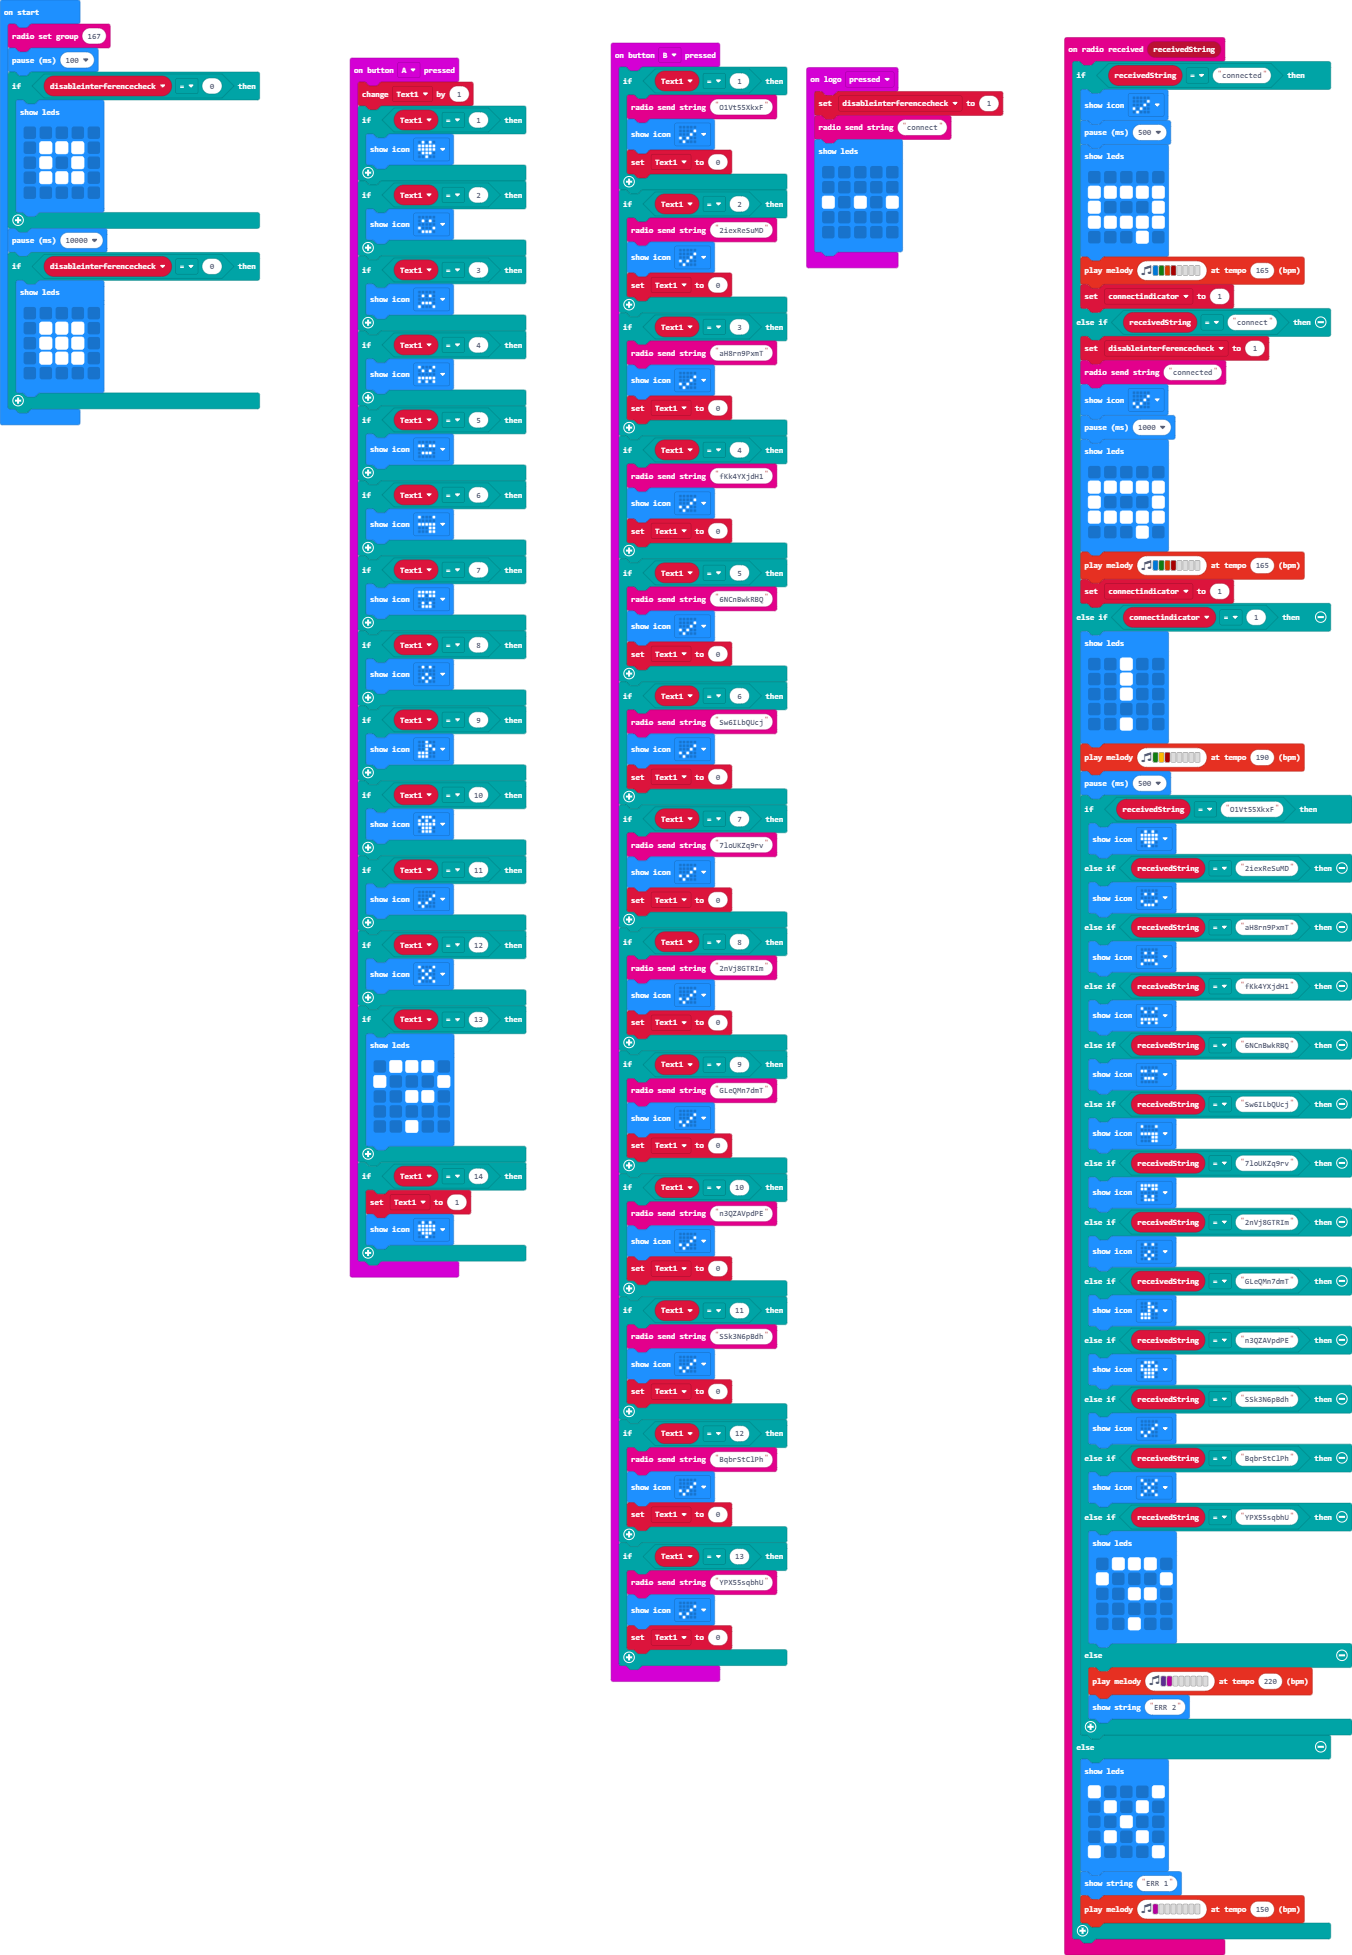
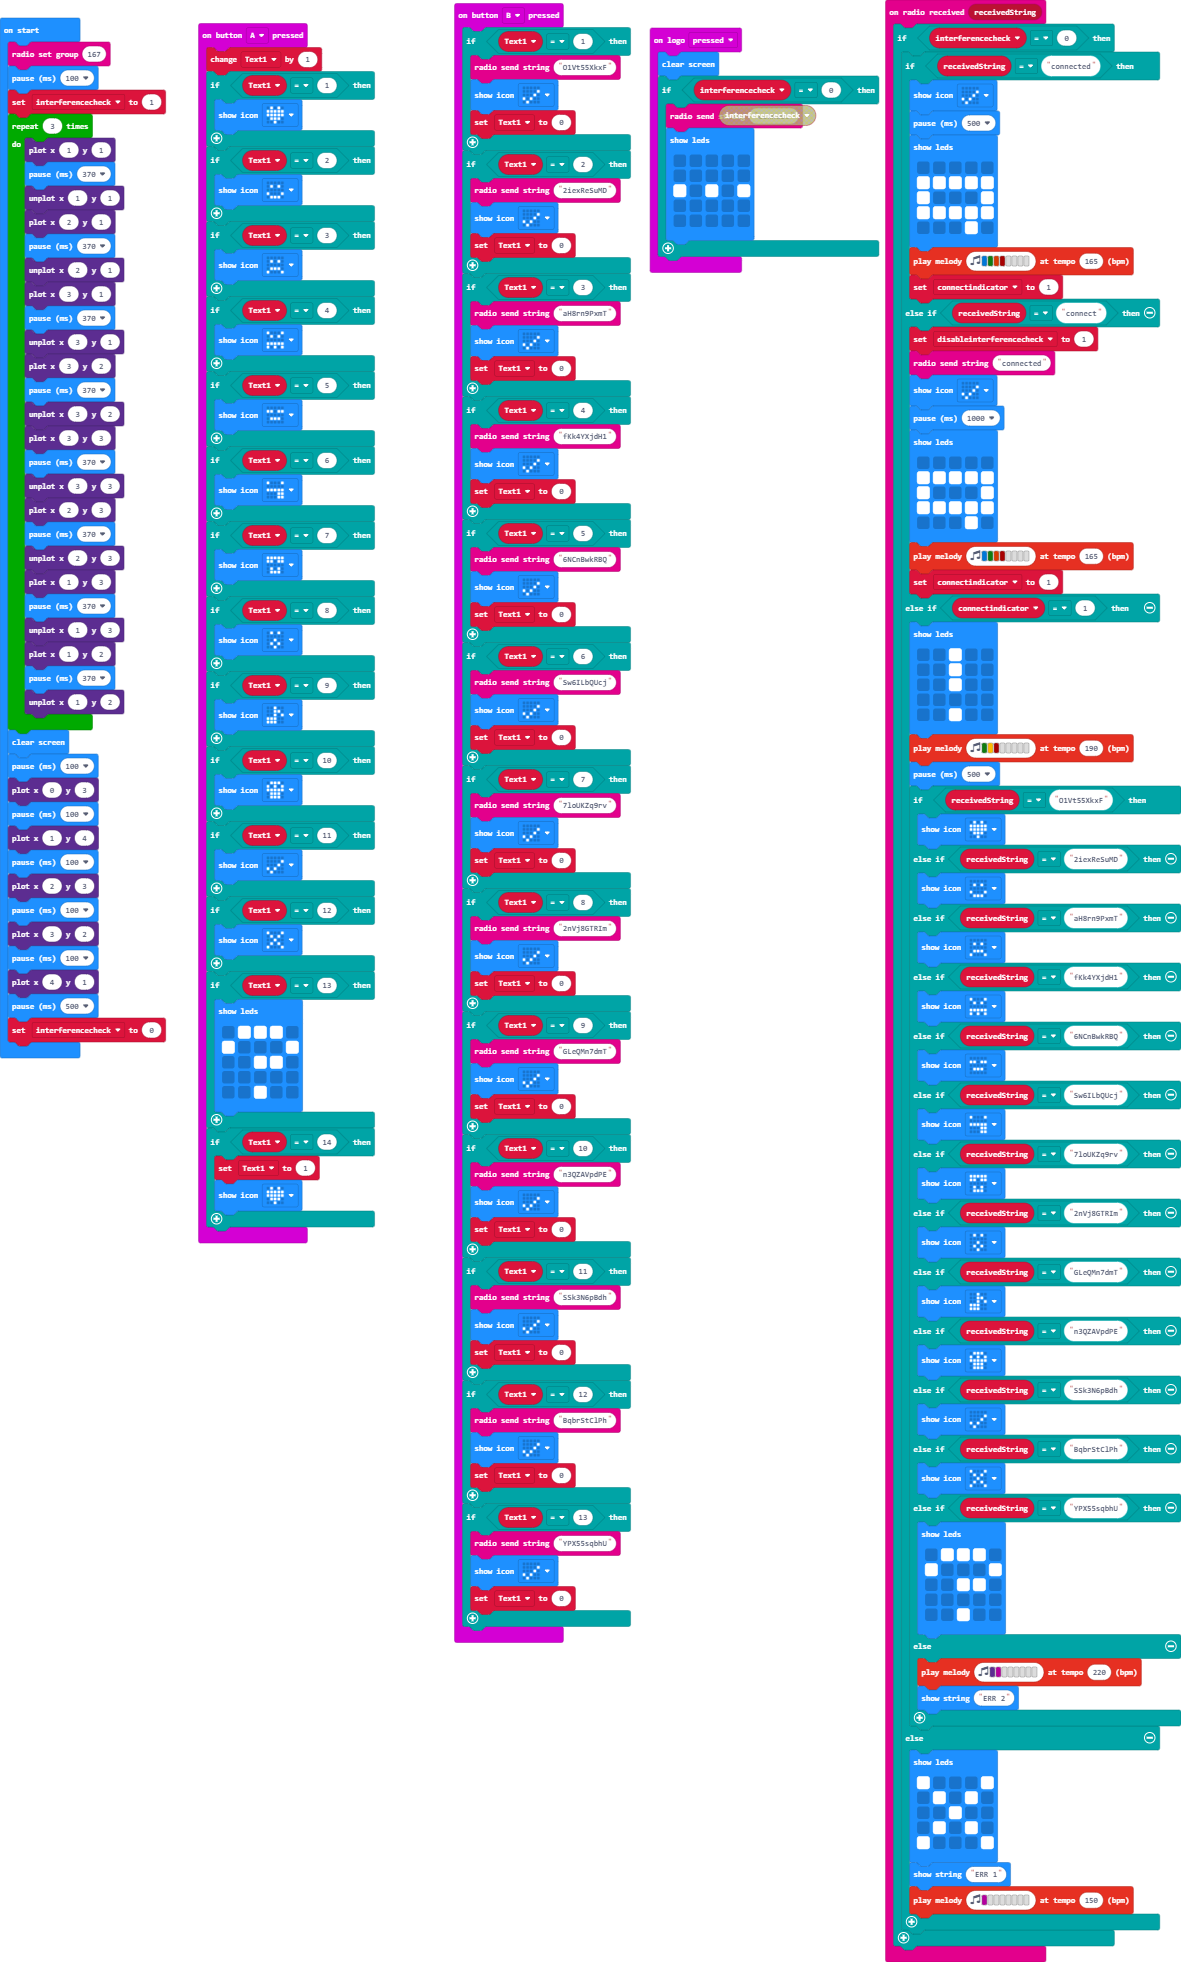
Update pxt.json, main.blocks, main.ts

diff --git a/main.ts b/main.ts
@@ -51,88 +51,90 @@ input.onButtonPressed(Button.A, function () {
     }
 })
 radio.onReceivedString(function (receivedString) {
-    if (receivedString == "connected") {
-        basic.showIcon(IconNames.Yes)
-        basic.pause(500)
-        basic.showLeds(`
-            . . . . .
-            # # # # #
-            # . . . #
-            # # # # #
-            . . . # .
-            `)
-        music.playMelody("E G B C5 - - - - ", 165)
-        connectindicator = 1
-    } else if (receivedString == "connect") {
-        disableinterferencecheck = 1
-        radio.sendString("connected")
-        basic.showIcon(IconNames.Yes)
-        basic.pause(1000)
-        basic.showLeds(`
-            . . . . .
-            # # # # #
-            # . . . #
-            # # # # #
-            . . . # .
-            `)
-        music.playMelody("E G B C5 - - - - ", 165)
-        connectindicator = 1
-    } else if (connectindicator == 1) {
-        basic.showLeds(`
-            . . # . .
-            . . # . .
-            . . # . .
-            . . . . .
-            . . # . .
-            `)
-        music.playMelody("G A C5 - - - - - ", 190)
-        basic.pause(500)
-        if (receivedString == "O1Vt55XkxF") {
-            basic.showIcon(IconNames.Heart)
-        } else if (receivedString == "2iexReSuMD") {
-            basic.showIcon(IconNames.Happy)
-        } else if (receivedString == "aH8rn9PxmT") {
-            basic.showIcon(IconNames.Sad)
-        } else if (receivedString == "fKk4YXjdH1") {
-            basic.showIcon(IconNames.Angry)
-        } else if (receivedString == "6NCnBwkRBQ") {
-            basic.showIcon(IconNames.Asleep)
-        } else if (receivedString == "Sw6ILbQUcj") {
-            basic.showIcon(IconNames.Silly)
-        } else if (receivedString == "7loUKZq9rv") {
-            basic.showIcon(IconNames.Fabulous)
-        } else if (receivedString == "2nVj8GTRIm") {
-            basic.showIcon(IconNames.Surprised)
-        } else if (receivedString == "GLeQMn7dmT") {
-            basic.showIcon(IconNames.EigthNote)
-        } else if (receivedString == "n3QZAVpdPE") {
-            basic.showIcon(IconNames.Skull)
-        } else if (receivedString == "SSk3N6pBdh") {
+    if (interferencecheck == 0) {
+        if (receivedString == "connected") {
             basic.showIcon(IconNames.Yes)
-        } else if (receivedString == "BqbrStClPh") {
-            basic.showIcon(IconNames.No)
-        } else if (receivedString == "YPX55sqbhU") {
+            basic.pause(500)
             basic.showLeds(`
-                . # # # .
+                . . . . .
+                # # # # #
                 # . . . #
-                . . # # .
+                # # # # #
+                . . . # .
+                `)
+            music.playMelody("E G B C5 - - - - ", 165)
+            connectindicator = 1
+        } else if (receivedString == "connect") {
+            disableinterferencecheck = 1
+            radio.sendString("connected")
+            basic.showIcon(IconNames.Yes)
+            basic.pause(1000)
+            basic.showLeds(`
+                . . . . .
+                # # # # #
+                # . . . #
+                # # # # #
+                . . . # .
+                `)
+            music.playMelody("E G B C5 - - - - ", 165)
+            connectindicator = 1
+        } else if (connectindicator == 1) {
+            basic.showLeds(`
+                . . # . .
+                . . # . .
+                . . # . .
                 . . . . .
                 . . # . .
                 `)
+            music.playMelody("G A C5 - - - - - ", 190)
+            basic.pause(500)
+            if (receivedString == "O1Vt55XkxF") {
+                basic.showIcon(IconNames.Heart)
+            } else if (receivedString == "2iexReSuMD") {
+                basic.showIcon(IconNames.Happy)
+            } else if (receivedString == "aH8rn9PxmT") {
+                basic.showIcon(IconNames.Sad)
+            } else if (receivedString == "fKk4YXjdH1") {
+                basic.showIcon(IconNames.Angry)
+            } else if (receivedString == "6NCnBwkRBQ") {
+                basic.showIcon(IconNames.Asleep)
+            } else if (receivedString == "Sw6ILbQUcj") {
+                basic.showIcon(IconNames.Silly)
+            } else if (receivedString == "7loUKZq9rv") {
+                basic.showIcon(IconNames.Fabulous)
+            } else if (receivedString == "2nVj8GTRIm") {
+                basic.showIcon(IconNames.Surprised)
+            } else if (receivedString == "GLeQMn7dmT") {
+                basic.showIcon(IconNames.EigthNote)
+            } else if (receivedString == "n3QZAVpdPE") {
+                basic.showIcon(IconNames.Skull)
+            } else if (receivedString == "SSk3N6pBdh") {
+                basic.showIcon(IconNames.Yes)
+            } else if (receivedString == "BqbrStClPh") {
+                basic.showIcon(IconNames.No)
+            } else if (receivedString == "YPX55sqbhU") {
+                basic.showLeds(`
+                    . # # # .
+                    # . . . #
+                    . . # # .
+                    . . . . .
+                    . . # . .
+                    `)
+            } else {
+                music.playMelody("D C - - - - - - ", 220)
+                basic.showString("ERR 2")
+            }
         } else {
-            music.playMelody("D C - - - - - - ", 220)
-            basic.showString("ERR 2")
+            basic.showLeds(`
+                # . . . #
+                . # . # .
+                . . # . .
+                . # . # .
+                # . . . #
+                `)
+            basic.showString("ERR 1")
+            music.playMelody("C - - - - - - - ", 150)
         }
-    } else {
-        basic.showLeds(`
-            # . . . #
-            . # . # .
-            . . # . .
-            . # . # .
-            # . . . #
-            `)
-        basic.showString("ERR 1")
-        music.playMelody("C - - - - - - - ", 150)
     }
 })
 input.onButtonPressed(Button.B, function () {
@@ -203,37 +205,61 @@ input.onButtonPressed(Button.B, function () {
     }
 })
 input.onLogoEvent(TouchButtonEvent.Pressed, function () {
-    disableinterferencecheck = 1
-    radio.sendString("connect")
-    basic.showLeds(`
-        . . . . .
-        . . . . .
-        # . # . #
-        . . . . .
-        . . . . .
-        `)
+    basic.clearScreen()
+    if (interferencecheck == 0) {
+        radio.sendString("connect")
+        basic.showLeds(`
+            . . . . .
+            . . . . .
+            # . # . #
+            . . . . .
+            . . . . .
+            `)
+    }
 })
+let disableinterferencecheck = 0
 let connectindicator = 0
 let Text1 = 0
-let disableinterferencecheck = 0
+let interferencecheck = 0
 radio.setGroup(167)
 basic.pause(100)
-if (disableinterferencecheck == 0) {
-    basic.showLeds(`
-        . . . . .
-        . # # # .
-        . # . # .
-        . # # # .
-        . . . . .
-        `)
+interferencecheck = 1
+for (let index = 0; index < 3; index++) {
+    led.plot(1, 1)
+    basic.pause(370)
+    led.unplot(1, 1)
+    led.plot(2, 1)
+    basic.pause(370)
+    led.unplot(2, 1)
+    led.plot(3, 1)
+    basic.pause(370)
+    led.unplot(3, 1)
+    led.plot(3, 2)
+    basic.pause(370)
+    led.unplot(3, 2)
+    led.plot(3, 3)
+    basic.pause(370)
+    led.unplot(3, 3)
+    led.plot(2, 3)
+    basic.pause(370)
+    led.unplot(2, 3)
+    led.plot(1, 3)
+    basic.pause(370)
+    led.unplot(1, 3)
+    led.plot(1, 2)
+    basic.pause(370)
+    led.unplot(1, 2)
 }
-basic.pause(10000)
-if (disableinterferencecheck == 0) {
-    basic.showLeds(`
-        . . . . .
-        . # # # .
-        . # # # .
-        . # # # .
-        . . . . .
-        `)
-}
+basic.clearScreen()
+basic.pause(100)
+led.plot(0, 3)
+basic.pause(100)
+led.plot(1, 4)
+basic.pause(100)
+led.plot(2, 3)
+basic.pause(100)
+led.plot(3, 2)
+basic.pause(100)
+led.plot(4, 1)
+basic.pause(500)
+interferencecheck = 0
